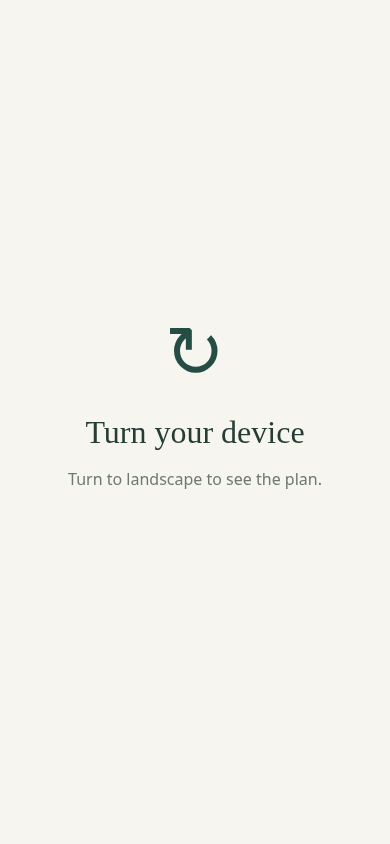
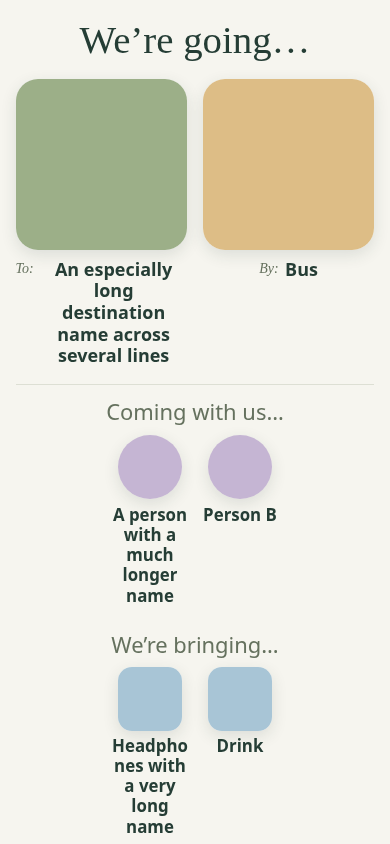
Restore portrait journeys and separate photo management in v1.0.21

Changed region(s): [[0.0308, 0.0308, 0.9846, 0.9858], [0.1846, 0.5545, 0.2462, 0.5853]]

diff --git a/transition_cues/transition-cues-web/app.js b/transition_cues/transition-cues-web/app.js
@@ -25,19 +25,19 @@ function frame(content, route) {
 function intro(title, description, extra='') { return `<div class="intro"><div><h1>${title}</h1>${description?`<p>${description}</p>`:''}</div>${extra}</div>`; }
 
 function settingsHeader(section) {
-  return `<div class="settings-segments" role="tablist" aria-label="Settings sections">${[['photos','Add photos',libraryIcon],['more','More settings',settingsIcon]].map(([key,label,icon])=>`<button type="button" role="tab" id="settingsTab-${key}" aria-selected="${key===section}" aria-controls="settingsPanel" tabindex="${key===section?'0':'-1'}" data-settings-section="${key}">${icon}<span>${label}</span></button>`).join('')}</div>`;
+  return `<div class="settings-segments" role="tablist" aria-label="Settings sections">${[['photos','Add photos',libraryIcon],['library','Manage photos',libraryIcon],['more','More settings',settingsIcon]].map(([key,label,icon])=>`<button type="button" role="tab" id="settingsTab-${key}" aria-selected="${key===section}" aria-controls="settingsPanel" tabindex="${key===section?'0':'-1'}" data-settings-section="${key}">${icon}<span>${label}</span></button>`).join('')}</div>`;
 }
 function wireSettingsSections(section) {
   const tabs=[...app.querySelectorAll('[data-settings-section]')];
   function selectTab(tab) {
-    const target=tab.dataset.settingsSection==='photos'?'#settings':'#settings-more';
+    const target={photos:'#settings',library:'#settings-manage',more:'#settings-more'}[tab.dataset.settingsSection];
     if(tab.dataset.settingsSection===section){tab.focus();return;}
     settingsTabFocus=true;location.hash=target;
   }
   tabs.forEach((tab,index)=>{
     tab.onclick=()=>selectTab(tab);
     tab.onkeydown=e=>{
-      const next={ArrowLeft:(index+1)%2,ArrowRight:(index+1)%2,Home:0,End:1}[e.key];
+      const next={ArrowLeft:(index+tabs.length-1)%tabs.length,ArrowRight:(index+1)%tabs.length,Home:0,End:tabs.length-1}[e.key];
       if(next===undefined)return;
       e.preventDefault();selectTab(tabs[next]);
     };
@@ -52,7 +52,7 @@ function empty(kind) {
     items:['＋','What shall we bring?','photos of things to take, like a drink, headphones or a favourite toy','an item'],
     people:['☺','Who is coming along?','a photo of someone who joins your journeys','a person']
   }[kind];
-  return `<div class="empty"><div class="empty-symbol" aria-hidden="true">${content[0]}</div><h3>${content[1]}</h3><p>Add ${content[2]}.<br>Real, familiar pictures make each journey easier to recognise.</p><a class="secondary" href="#manage">Add ${content[3]} <span aria-hidden="true">＋</span></a></div>`;
+  return `<div class="empty"><div class="empty-symbol" aria-hidden="true">${content[0]}</div><h3>${content[1]}</h3><p>Add ${content[2]}.<br>Real, familiar pictures make each journey easier to recognise.</p><a class="secondary" href="#settings">Add ${content[3]} <span aria-hidden="true">＋</span></a></div>`;
 }
 const planKinds=['places','transport','people','items'];
 function renderChoose(focusStep=false) {
@@ -125,7 +125,7 @@ function renderLocked() {
   document.body.classList.add('lock-active');
   const items = locked.items || [];
   const people = locked.people || [];
-  app.innerHTML = `<main class="locked ${items.length?'has-items':''} ${people.length?'has-people':''}" id="lockedSurface" aria-label="Journey picture display"><div class="orientation-notice" role="status"><span aria-hidden="true">↻</span><h1>Turn your device</h1><p>Turn to landscape to see the plan.</p></div><div class="journey-content"><h1>We’re going…</h1><div class="cue-pair">${['places','transport'].map((kind,i)=>`<figure class="cue-card"><img src="${esc(locked[kind].image)}" alt="${esc(locked[kind].name)}" draggable="false"><figcaption><span class="cue-label">${i===0?'To:':'By:'}</span><span class="cue-name">${esc(locked[kind].name)}</span></figcaption></figure>`).join('')}</div>${people.length||items.length?`<div class="journey-companions">${people.length ? `<section class="journey-people" aria-labelledby="peopleHeading"><h2 id="peopleHeading">Coming with us…</h2><div class="people-row">${people.map(person=>`<figure class="person-card"><img src="${esc(person.image)}" alt="${esc(person.name)}" draggable="false"><figcaption>${esc(person.name)}</figcaption></figure>`).join('')}</div></section>` : ''}${items.length ? `<section class="bring-items" aria-labelledby="bringHeading"><h2 id="bringHeading">We’re bringing…</h2><div class="bring-grid">${items.map(item=>`<figure class="bring-card"><img src="${esc(item.image)}" alt="${esc(item.name)}" draggable="false"><figcaption>${esc(item.name)}</figcaption></figure>`).join('')}</div></section>` : ''}</div>`:''}</div></main>`;
+  app.innerHTML = `<main class="locked ${items.length?'has-items':''} ${people.length?'has-people':''}" id="lockedSurface" aria-label="Journey picture display"><div class="journey-content"><h1>We’re going…</h1><div class="cue-pair">${['places','transport'].map((kind,i)=>`<figure class="cue-card"><img src="${esc(locked[kind].image)}" alt="${esc(locked[kind].name)}" draggable="false"><figcaption><span class="cue-label">${i===0?'To:':'By:'}</span><span class="cue-name">${esc(locked[kind].name)}</span></figcaption></figure>`).join('')}</div>${people.length||items.length?`<div class="journey-companions">${people.length ? `<section class="journey-people" aria-labelledby="peopleHeading"><h2 id="peopleHeading">Coming with us…</h2><div class="people-row">${people.map(person=>`<figure class="person-card"><img src="${esc(person.image)}" alt="${esc(person.name)}" draggable="false"><figcaption>${esc(person.name)}</figcaption></figure>`).join('')}</div></section>` : ''}${items.length ? `<section class="bring-items" aria-labelledby="bringHeading"><h2 id="bringHeading">We’re bringing…</h2><div class="bring-grid">${items.map(item=>`<figure class="bring-card"><img src="${esc(item.image)}" alt="${esc(item.name)}" draggable="false"><figcaption>${esc(item.name)}</figcaption></figure>`).join('')}</div></section>` : ''}</div>`:''}</div></main>`;
   $('#lockedSurface').addEventListener('contextmenu', e=>e.preventDefault());
   $('#lockedSurface').onclick = () => {
     const now = Date.now(); taps = taps.filter(t=>now-t<3000); taps.push(now);
@@ -138,13 +138,15 @@ const uploadCategories = [
   ['items','Items','<circle cx="6.5" cy="5" r="3"/><circle cx="17.5" cy="5" r="3"/><ellipse cx="12" cy="18" rx="5" ry="4"/><circle cx="7" cy="20" r="2.5"/><circle cx="17" cy="20" r="2.5"/><circle cx="12" cy="10" r="6"/><ellipse cx="12" cy="12" rx="2" ry="1.5"/><path d="M9 9h.01M15 9h.01"/>'],
   ['people','People','<circle cx="12" cy="7" r="4"/><path d="M4 22v-3a8 8 0 0 1 16 0v3Z"/>']
 ];
-function renderManage() {
-  frame(settingsHeader('photos')+`<section id="settingsPanel" role="tabpanel" aria-labelledby="settingsTab-photos">`+
-    `<div class="management"><section class="panel" aria-label="Upload a picture"><form id="uploadForm"><div><label for="photo">Photo</label><input id="photo" type="file" accept="image/jpeg,image/png,image/webp" required><p class="help">JPEG, PNG or WebP. Photos fill a square automatically. Use Crop photo to zoom out, adjust framing and colour any gaps. People display as circles.</p><img id="photoPreview" class="preview-image" alt="Selected photo preview" hidden><button id="cropUpload" class="secondary" type="button" hidden>Crop photo</button></div><div><label for="name">Name</label><input id="name" maxlength="60" placeholder="e.g. Park" required></div><fieldset class="kind-picker"><legend>What is it?</legend><div class="kind-options">${categoryChoices('kind',category)}</div></fieldset><p id="uploadError" class="error" role="alert"></p><button class="primary" type="submit" id="uploadButton">Add to library <span aria-hidden="true">＋</span></button></form></section><section aria-label="Existing pictures"><div class="tabs" aria-label="Picture categories">${[['places','Places'],['transport','Transport'],['items','Items'],['people','People']].map(([k,t])=>`<button data-tab="${k}" aria-pressed="${category===k}">${t} · ${state[k].length}</button>`).join('')}</div><div id="library"></div></section></div></section>`, 'settings');
-  wireSettingsSections('photos');
+function renderManage(section='photos') {
+  frame(settingsHeader(section)+`<section id="settingsPanel" role="tabpanel" aria-labelledby="settingsTab-${section}">`+
+    `${section==='photos'?`<div class="add-photos"><section class="panel" aria-label="Upload a picture"><form id="uploadForm"><div><label for="photo">Photo</label><input id="photo" type="file" accept="image/jpeg,image/png,image/webp" required><p class="help">JPEG, PNG or WebP. Photos fill a square automatically. Use Crop photo to zoom out, adjust framing and colour any gaps. People display as circles.</p><img id="photoPreview" class="preview-image" alt="Selected photo preview" hidden><button id="cropUpload" class="secondary" type="button" hidden>Crop photo</button></div><div><label for="name">Name</label><input id="name" maxlength="60" placeholder="e.g. Park" required></div><fieldset class="kind-picker"><legend>What is it?</legend><div class="kind-options">${categoryChoices('kind',category)}</div></fieldset><p id="uploadError" class="error" role="alert"></p><button class="primary" type="submit" id="uploadButton">Add to library <span aria-hidden="true">＋</span></button></form></section></div>`:`<div class="photo-library"><section aria-label="Existing pictures"><div class="tabs" aria-label="Picture categories">${[['places','Places'],['transport','Transport'],['items','Items'],['people','People']].map(([k,t])=>`<button data-tab="${k}" aria-pressed="${category===k}">${t} · ${state[k].length}</button>`).join('')}</div><div id="library"></div></section></div>`}</section>`, 'settings');
+  wireSettingsSections(section);
+  if(section==='library'){
+    app.querySelectorAll('[data-tab]').forEach(button=>button.onclick=()=>{category=button.dataset.tab;renderManage('library');});
+    renderLibrary();return;
+  }
   const uploadKind=()=>$('#uploadForm input[name="kind"]:checked').value;
-  app.querySelectorAll('[data-tab]').forEach(b=>b.onclick=()=>{category=b.dataset.tab;renderManage();});
-  renderLibrary();
   let previewUrl, croppedImage = null, preparing = Promise.resolve(), revision = 0;
   const uploadForm=$('#uploadForm');
   let wasPerson = uploadKind()==='people';
@@ -279,7 +281,7 @@ $('#editForm').onsubmit=async e=>{
     const body=editing.action==='rename'?{kind:editing.kind,id:editing.id,sourceName:editing.sourceName,name:$('#editName').value.trim()}:{kind:editing.kind,id:editing.id,targetKind:target};
     await api(editing.action,body);await refresh();
     if(target)category=target;
-    $('#editDialog').close();renderManage();
+    $('#editDialog').close();renderManage('library');
     app.querySelector(`[data-${editing.action}="${editing.id}"]`)?.focus({preventScroll:true});
     toast(editing.action==='rename'?'Name updated.':'Picture moved to its new category.');
   } catch(error){$('#editError').textContent=error.message;}
@@ -309,7 +311,7 @@ function renderLibrary() {
     button.disabled=true;
     try { await openCrop(item.originalImage || item.image, kind==='people', async image=>{
       await api('crop',{kind,id:item.id,sourceImage:item.image,image});
-      await refresh();renderManage();toast('Cropped picture saved. Locked journeys keep their current picture.');
+      await refresh();renderManage('library');toast('Cropped picture saved. Locked journeys keep their current picture.');
     }); } catch(error) { toast(error.message); }
     finally { button.disabled=false; }
   });
@@ -317,7 +319,7 @@ function renderLibrary() {
   app.querySelectorAll('[data-remove]').forEach(b=>b.onclick=()=>{const item=items.find(x=>x.id===b.dataset.remove);pendingDelete={kind:category,id:item.id};$('#deleteText').textContent=`Remove “${item.name}” from the library? An already locked journey will keep its picture until it is finished.`;$('#deleteDialog').showModal();});
 }
 $('#deleteCancel').onclick=()=>$('#deleteDialog').close();
-$('#deleteForm').onsubmit=async e=>{e.preventDefault();const b=e.submitter;b.disabled=true;try{await api('delete',pendingDelete);$('#deleteDialog').close();await refresh();renderManage();toast('Picture removed.');}catch(error){toast(error.message);}finally{b.disabled=false;}};
+$('#deleteForm').onsubmit=async e=>{e.preventDefault();const b=e.submitter;b.disabled=true;try{await api('delete',pendingDelete);$('#deleteDialog').close();await refresh();renderManage('library');toast('Picture removed.');}catch(error){toast(error.message);}finally{b.disabled=false;}};
 function renderSettings() {
   frame(settingsHeader('more')+`<section id="settingsPanel" role="tabpanel" aria-labelledby="settingsTab-more"><div class="settings-grid"><section class="panel"><h2>Back to main screen</h2><p>Add the address of your main tablet screen. A return link will appear on the parent screens.</p><form id="returnForm"><div><label for="returnUrl">Main screen address</label><input id="returnUrl" type="url" placeholder="http://homeassistant.local:8123/…" value="${esc(state.returnUrl)}"></div><button class="primary">Save link</button><p id="returnError" class="error" role="alert"></p></form></section></div></section>`, 'settings');
   wireSettingsSections('more');
@@ -328,7 +330,7 @@ async function route() {
   if($('#planDialog').open)$('#planDialog').close();
   if(locked){renderLocked();return;}
   const view=location.hash.slice(1) || (location.pathname==='/manage'?'manage':location.pathname==='/settings'?'settings':'choose');
-  if(view==='manage'||view==='settings')renderManage();else if(view==='settings-more')renderSettings();else renderChoose();
+  if(view==='settings')renderManage();else if(view==='manage'||view==='settings-manage')renderManage('library');else if(view==='settings-more')renderSettings();else renderChoose();
 }
 window.addEventListener('hashchange',()=>route());
 // Refresh the library when a parent returns to this tab; never replace a locked cue.

diff --git a/transition_cues/transition-cues-web/style.css b/transition_cues/transition-cues-web/style.css
@@ -33,7 +33,6 @@
 /* Landscape journey: aligned photos and captions, with both companion groups below. */
 .orientation-notice{display:none}.journey-content{display:flex;flex-direction:column;gap:2vh}.locked .cue-pair{grid-template-columns:repeat(2,minmax(0,1fr));align-items:start;gap:4vw}.locked .cue-card{justify-content:flex-start;align-self:start}.locked .cue-card img{width:min(100%,40vh)}.locked .cue-card figcaption{align-items:start;line-height:1.2;margin-top:1vh}.locked .cue-card .cue-label{line-height:1.2;display:flex;align-items:center;min-height:1.2em}.locked .cue-name{line-height:1.2}
 .journey-companions{display:flex;align-items:flex-start;justify-content:center;gap:4vw;border-top:1px solid var(--line);padding-top:1.5vh}.journey-companions>section{flex:1;min-width:0;border:0;padding:0}.journey-companions .people-row,.journey-companions .bring-grid{align-items:flex-start}.locked .journey-companions h2{font-size:clamp(16px,2.6vh,24px);margin:0 0 1vh}.locked .bring-card figcaption{font-size:clamp(14px,2vh,20px);line-height:1.2}
-@media(orientation:portrait){.locked .journey-content{display:none}.locked .orientation-notice{display:flex;flex-direction:column;align-items:center;justify-content:center;min-height:90dvh;text-align:center;padding:24px}.orientation-notice>span{font-size:72px;color:var(--green)}.locked .orientation-notice h1{font-size:32px;margin:16px 0}.orientation-notice p{color:var(--muted);line-height:1.6;margin:0}}
 .locked .cue-card figcaption,.locked:is(.has-items,.has-people) .cue-card figcaption{--cue-name-size:clamp(20px,3.2vh,36px);font-size:var(--cue-name-size)}.locked .cue-card .cue-label{height:calc(var(--cue-name-size)*1.2);font-size:clamp(14px,2.6vh,24px)}
 
 .settings-grid{grid-template-columns:1fr;max-width:700px}
@@ -58,3 +57,6 @@
 .wizard-heading{margin:32px 0 26px;align-items:center}.wizard-heading h2{font:normal clamp(32px,4vw,48px)/1.15 var(--serif);letter-spacing:-1.3px;margin:12px 0}.wizard-heading small{font-size:12px;color:var(--muted);flex:none}.optional-items{margin-top:40px}.wizard-heading .items-guidance{font-size:14px;margin-top:5px}@media(max-width:620px){.wizard-heading{display:flex;gap:12px;align-items:flex-start}.wizard-heading small{padding-top:18px;max-width:90px;text-align:right}.optional-items{margin-top:32px}}
 
 .brand img{border-radius:10px}
+
+.brand img{border:1px solid #000}.add-photos{max-width:440px}.settings-segments{width:min(100%,600px)}.photo-library .library-grid{grid-template-columns:repeat(4,minmax(0,1fr))}@media(max-width:900px){.photo-library .library-grid{grid-template-columns:repeat(3,minmax(0,1fr))}}@media(max-width:620px){.photo-library .library-grid{grid-template-columns:repeat(2,minmax(0,1fr))}.settings-segments [role=tab]{flex-direction:column;gap:5px;font-size:12px;padding:9px 4px;line-height:1.3}.settings-segments svg{width:20px;height:20px}}
+@media(orientation:portrait) and (max-width:620px){.locked .journey-companions{flex-direction:column;gap:24px}.locked .journey-companions>section{width:100%}.locked .cue-card figcaption,.locked:is(.has-items,.has-people) .cue-card figcaption{--cue-name-size:clamp(18px,4.5vw,30px);font-size:var(--cue-name-size)}.locked .cue-card .cue-label{font-size:clamp(14px,3.5vw,22px)}}

diff --git a/transition_cues/transition-cues-web/index.html b/transition_cues/transition-cues-web/index.html
@@ -10,7 +10,7 @@
 <body>
 <div id="app"><p class="loading" role="status">Opening ReadySteady…</p></div>
 <dialog id="planDialog" aria-labelledby="planTitle" aria-describedby="planHelp">
-<form id="planForm"><span class="eyebrow">READY TO GO</span><h1 id="planTitle">A clear plan, ready when you are</h1><p id="planHelp">The display locks when you start. Tap 5 times within 3 seconds to finish. Turn your device to landscape to see the plan.</p><label class="remember-choice" for="skipPlanIntro"><input id="skipPlanIntro" type="checkbox">Don’t show this again</label><p class="help">Remembers your choice in this browser on this device.</p><div class="dialog-actions"><button id="planBack" type="button" class="secondary">Back to choices</button><button id="planContinue" type="submit" class="primary">Continue to the plan →</button></div></form>
+<form id="planForm"><span class="eyebrow">READY TO GO</span><h1 id="planTitle">A clear plan, ready when you are</h1><p id="planHelp">The display locks when you start. Tap 5 times within 3 seconds to finish.</p><label class="remember-choice" for="skipPlanIntro"><input id="skipPlanIntro" type="checkbox">Don’t show this again</label><p class="help">Remembers your choice in this browser on this device.</p><div class="dialog-actions"><button id="planBack" type="button" class="secondary">Back to choices</button><button id="planContinue" type="submit" class="primary">Continue to the plan →</button></div></form>
 </dialog>
 <dialog id="deleteDialog" aria-labelledby="deleteTitle"><form id="deleteForm"><span class="eyebrow">PICTURE LIBRARY</span><h2 id="deleteTitle">Remove this picture?</h2><p id="deleteText"></p><div class="dialog-actions"><button type="button" class="secondary" id="deleteCancel">Keep picture</button><button type="submit" class="danger">Remove</button></div></form></dialog>
 <dialog id="editDialog" aria-labelledby="editTitle" aria-describedby="editHelp"><form id="editForm"><h2 id="editTitle">Edit picture</h2><p id="editHelp"></p><div id="renameFields"><label for="editName">Name</label><input id="editName" maxlength="60" autocomplete="off" required></div><fieldset id="transferFields" class="kind-picker" hidden><legend>New category</legend><div id="editCategories" class="kind-options"></div></fieldset><p id="editError" class="error" role="alert"></p><div class="dialog-actions"><button id="editCancel" type="button" class="secondary">Cancel</button><button id="editSave" type="submit" class="primary">Save</button></div></form></dialog>

diff --git a/tests/browser_people_crop.py b/tests/browser_people_crop.py
@@ -31,13 +31,14 @@ def run(engine):
                 expect(page.get_by_text('Familiar pictures. A little more certainty.',exact=True)).to_have_count(0)
                 phone=browser.new_context(viewport={'width':390,'height':844},is_mobile=True,has_touch=True)
                 mobile=phone.new_page();mobile.on('pageerror',lambda e:errors.append(str(e)))
-                mobile.goto(url+'/#manage')
+                mobile.goto(url+'/#settings')
                 expect(mobile.locator('#uploadForm')).to_be_visible()
                 # Three colour bands make a crop's actual output measurable.
                 png=mobile.evaluate('''()=>{const c=document.createElement('canvas');c.width=600;c.height=400;const x=c.getContext('2d');['#d00000','#00b000','#0000d0'].forEach((color,i)=>{x.fillStyle=color;x.fillRect(i*200,0,200,400)});return c.toDataURL('image/png').split(',')[1]}''')
                 def dimensions(src):
                     return mobile.evaluate('''async src=>{const i=new Image();i.src=src;await i.decode();return [i.width,i.height]}''',src)
                 def upload(kind,name,crop=False):
+                    mobile.get_by_role('tab',name='Add photos',exact=True).click()
                     mobile.get_by_role('radio',name={'places':'Place','transport':'Transport','items':'Items','people':'People'}[kind],exact=True).check();mobile.locator('#name').fill(name)
                     mobile.locator('#photo').set_input_files({'name':'test.png','mimeType':'image/png','buffer':base64.b64decode(png)})
                     expect(mobile.locator('#photoPreview')).to_be_visible()
@@ -54,6 +55,8 @@ def run(engine):
                         mobile.locator('#cropSave').click()
                         expect(mobile.locator('#cropDialog')).not_to_be_visible()
                     mobile.locator('#uploadButton').click()
+                    expect(mobile.locator('#name')).to_have_value('')
+                    mobile.get_by_role('tab',name='Manage photos',exact=True).click()
                     expect(mobile.locator('.library-item strong',has_text=name)).to_be_visible()
                     saved=mobile.evaluate('''async ({kind,name})=>{const s=await(await fetch('/api/state')).json();return s[kind].find(i=>i.name===name)}''',{'kind':kind,'name':name})
                     assert dimensions(saved['image'])==([200,200] if crop else [400,400])
@@ -90,12 +93,15 @@ def run(engine):
                 assert pixel(bus['image'],580,300)[2]>180  # Original right edge still visible.
                 # Full and partial transparency must enable the picker even without zooming out.
                 transparent=mobile.evaluate('''()=>{const c=document.createElement('canvas');c.width=600;c.height=400;const x=c.getContext('2d');x.fillStyle='#d00000';x.fillRect(0,0,200,400);x.fillStyle='rgba(255,255,255,.5)';x.fillRect(200,0,200,400);return c.toDataURL('image/png').split(',')[1]}''')
+                mobile.get_by_role('tab',name='Add photos',exact=True).click()
                 mobile.get_by_role('radio',name='Place',exact=True).check();mobile.locator('#name').fill('Transparent symbol')
                 mobile.locator('#photo').set_input_files({'name':'transparent.png','mimeType':'image/png','buffer':base64.b64decode(transparent)})
                 mobile.locator('#cropUpload').click()
                 expect(mobile.locator('#cropBackgroundGroup')).to_be_visible()
                 mobile.locator('#cropBackground').fill('#2468ac');mobile.locator('#cropSave').click()
                 mobile.locator('#uploadButton').click()
+                expect(mobile.locator('#name')).to_have_value('')
+                mobile.get_by_role('tab',name='Manage photos',exact=True).click()
                 expect(mobile.locator('.library-item strong',has_text='Transparent symbol')).to_be_visible()
                 symbol=mobile.evaluate("async()=>{const s=await(await fetch('/api/state')).json();return s.places.find(i=>i.name==='Transparent symbol')}")
                 assert dimensions(symbol['image'])==[400,400]
@@ -108,6 +114,7 @@ def run(engine):
                 mobile.locator('#cropCancel').click()
 
                 # Partial alpha on its own also enables the colour picker at fill zoom.
+                mobile.get_by_role('tab',name='Add photos',exact=True).click()
                 partial=mobile.evaluate('''()=>{const c=document.createElement('canvas');c.width=c.height=100;const x=c.getContext('2d');x.fillStyle='rgba(255,0,0,.5)';x.fillRect(0,0,100,100);return c.toDataURL('image/png').split(',')[1]}''')
                 mobile.locator('#photo').set_input_files({'name':'partial.png','mimeType':'image/png','buffer':base64.b64decode(partial)})
                 mobile.locator('#cropUpload').click()
@@ -165,10 +172,8 @@ def run(engine):
                 for width,height in [(1280,900),(1024,768),(768,1024),(390,844)]:
                     page.set_viewport_size({'width':width,'height':height})
                     assert page.evaluate('document.documentElement.scrollWidth<=innerWidth')
-                    if height>width:
-                        expect(page.locator('.orientation-notice')).to_be_visible()
-                        expect(page.locator('.cue-pair')).not_to_be_visible()
-                        continue
+                    expect(page.locator('.journey-content')).to_be_visible()
+                    expect(page.locator('.orientation-notice')).to_have_count(0)
                     for photo in page.locator('.cue-card img,.bring-card img').all():
                         bounds=photo.bounding_box()
                         assert abs(bounds['width']-bounds['height'])<1,bounds

diff --git a/tests/browser_display.py b/tests/browser_display.py
@@ -1,4 +1,4 @@
-"""Landscape gating, stable long-name geometry, navigation and timed tap-to-exit."""
+"""Portrait/landscape layouts, long-name geometry, settings navigation and tap-to-exit."""
 import argparse
 import os
 from pathlib import Path
@@ -36,9 +36,14 @@ def run(engine):
                 expect(page.locator('#uploadForm')).to_be_visible()
                 expect(page.locator('#returnForm')).to_have_count(0)
                 expect(page.get_by_text('On the tablet',exact=True)).to_have_count(0)
-                expect(page.locator('.settings-segments svg')).to_have_count(2)
+                expect(page.locator('.settings-segments svg')).to_have_count(3)
                 page.screenshot(path='/tmp/readysteady-settings-photos.png',full_page=True)
-                page.get_by_role('tab',name='More settings',exact=True).click()
+                expect(page.locator('#library')).to_have_count(0)
+                page.get_by_role('tab',name='Manage photos',exact=True).click()
+                expect(page.locator('#library')).to_be_visible()
+                expect(page.locator('#uploadForm')).to_have_count(0)
+                expect(page.get_by_role('tab',name='Manage photos',exact=True)).to_have_attribute('aria-selected','true')
+                page.get_by_role('tab',name='Manage photos',exact=True).press('ArrowRight')
                 expect(page.get_by_role('tab',name='More settings',exact=True)).to_have_attribute('aria-selected','true')
                 expect(page.locator('#uploadForm')).to_have_count(0)
                 expect(page.locator('#settingsPanel h2')).to_have_count(1)
@@ -120,8 +125,11 @@ def run(engine):
                     assert page.locator('.cue-name').first.bounding_box()['height']>page.locator('.cue-name').last.bounding_box()['height']
                     pair=page.locator('.cue-pair').bounding_box()
                     groups=[page.locator('.journey-people').bounding_box(),page.locator('.bring-items').bounding_box()]
-                    assert abs(groups[0]['y']-groups[1]['y'])<1
-                    assert groups[0]['x']+groups[0]['width']<=groups[1]['x']+1
+                    if page.viewport_size['height']>page.viewport_size['width'] and page.viewport_size['width']<=620:
+                        assert groups[1]['y']>=groups[0]['y']+groups[0]['height']
+                    else:
+                        assert abs(groups[0]['y']-groups[1]['y'])<1
+                        assert groups[0]['x']+groups[0]['width']<=groups[1]['x']+1
                     assert groups[0]['y']>=pair['y']+pair['height']
                     for selector in ['.person-card img','.bring-card img']:
                         boxes=[image.bounding_box() for image in page.locator(selector).all()]
@@ -131,10 +139,13 @@ def run(engine):
                     page.set_viewport_size({'width':width,'height':height});assert_aligned()
                 page.screenshot(path='/tmp/transition-cues-landscape.png',full_page=False)
                 page.set_viewport_size({'width':390,'height':844})
-                expect(page.get_by_role('heading',name='Turn your device')).to_be_visible()
-                expect(page.locator('.journey-content')).not_to_be_visible()
+                expect(page.locator('.journey-content')).to_be_visible()
+                expect(page.locator('.orientation-notice')).to_have_count(0)
+                assert_aligned()
+                page.locator('.bring-card').last.scroll_into_view_if_needed()
+                expect(page.locator('.bring-card').last).to_be_in_viewport()
                 page.screenshot(path='/tmp/transition-cues-portrait.png',full_page=False)
-                page.reload();expect(page.get_by_role('heading',name='Turn your device')).to_be_visible()
+                page.reload();expect(page.locator('.journey-content')).to_be_visible()
                 page.set_viewport_size({'width':1024,'height':768})
                 expect(page.locator('.journey-content')).to_be_visible();assert_aligned()
                 # Deterministic time verifies that a fifth late tap cannot exit.
@@ -150,7 +161,7 @@ def run(engine):
                 page.reload();expect(page.locator('#start')).not_to_be_visible()
                 assert not errors,errors
                 browser.close()
-                print(f'PASS ({engine}): selection-card photo/name alignment at phone/tablet sizes, one-step wizard, thumbnail summary and editing, back navigation, optional-item skip, conditional start button, accessible navigation, portrait prompt, landscape display, aligned long names and photos, companion groups, snapshot reload and timed five-tap exit.')
+                print(f'PASS ({engine}): selection-card photo/name alignment at phone/tablet sizes, one-step wizard, thumbnail summary and editing, back navigation, optional-item skip, conditional start button, accessible navigation, portrait and landscape display, aligned long names and photos, companion groups, snapshot reload and timed five-tap exit.')
         finally:
             server.shutdown();server.server_close();thread.join()
 

diff --git a/tests/browser_smoke.py b/tests/browser_smoke.py
@@ -34,7 +34,7 @@ def run():
                 phone = browser.new_context(viewport={'width':390,'height':844}, is_mobile=True, has_touch=True)
                 mobile = phone.new_page()
                 mobile.on('pageerror', lambda error: errors.append(str(error)))
-                mobile.goto(url + '/#manage')
+                mobile.goto(url + '/#settings')
                 expect(mobile.locator('#uploadForm')).to_be_visible()
                 # Test images are generated within the browser, never shipped in the real library.
                 for kind, name, color in [('places','Park','#9caf88'),('transport','Bus','#ddbd86'),('items','Drink','#a8c5d6'),('items','Headphones','#c5b5d3'),('items','Coat','#d7b4a2'),('items','Toy','#c0cdaa'),('items','Bag','#e0d1a2')]:
@@ -43,7 +43,11 @@ def run():
                     mobile.locator('#name').fill(name)
                     mobile.get_by_role('radio',name={'places':'Place','transport':'Transport','items':'Items','people':'People'}[kind],exact=True).check()
                     mobile.locator('#uploadButton').click()
+                    expect(mobile.locator('#name')).to_have_value('')
+                    mobile.get_by_role('tab',name='Manage photos',exact=True).click()
                     expect(mobile.locator('.library-item strong', has_text=name)).to_be_visible()
+                    mobile.get_by_role('tab',name='Add photos',exact=True).click()
+                mobile.get_by_role('tab',name='Manage photos',exact=True).click()
                 mobile.screenshot(path='/tmp/transition-cues-phone.png', full_page=True)
                 assert mobile.evaluate('document.documentElement.scrollWidth <= innerWidth'), 'Phone layout overflows'
                 page.reload()
@@ -94,10 +98,10 @@ def run():
                 for width,height in [(1280,900),(1024,768),(768,1024),(390,844)]:
                     page.set_viewport_size({'width':width,'height':height})
                     assert page.evaluate('document.documentElement.scrollWidth <= innerWidth'), 'Locked layout overflows horizontally'
-                    if height>width:
-                        expect(page.locator('.orientation-notice')).to_be_visible()
-                        expect(page.locator('.cue-pair')).not_to_be_visible()
-                        continue
+                    expect(page.locator('.journey-content')).to_be_visible()
+                    expect(page.locator('.orientation-notice')).to_have_count(0)
+                    page.locator('.bring-card').last.scroll_into_view_if_needed()
+                    expect(page.locator('.bring-card').last).to_be_in_viewport()
                     assert page.locator('.bring-items').evaluate('(items)=>items.getBoundingClientRect().top >= document.querySelector(".cue-pair").getBoundingClientRect().bottom'), 'Items must be below the main photos'
                 page.set_viewport_size({'width':1280,'height':900})
                 page.screenshot(path='/tmp/transition-cues-locked.png', full_page=True)

diff --git a/tests/container_smoke.py b/tests/container_smoke.py
@@ -81,5 +81,5 @@ print('PASS: replacement container preserves library and images in /data')
 
 if __name__ == '__main__':
     parser = argparse.ArgumentParser()
-    parser.add_argument('--image', default='transition-cues-ha-check:1.0.20')
+    parser.add_argument('--image', default='transition-cues-ha-check:1.0.21')
     run(parser.parse_args().image)

diff --git a/transition_cues/DOCS.md b/transition_cues/DOCS.md
@@ -40,11 +40,11 @@ If you are starting with an empty library, stop the old add-on, install and star
 
 ## First launch and pictures
 
-The gear icon at the top right opens **Settings**, with **Add photos** selected by default. The Settings title sits at the right of its header. Its picture icon shows the upload form and existing library. Choose **More settings** (cog icon) for the **Back to main screen** address; this is the only setting in that section. Use the chevron back button at the top left to return to journey selection. The segmented control supports the arrow keys and Home/End, and existing picture-library URLs still open Add photos.
+The gear icon at the top right opens **Settings**, with **Add photos** selected by default. The Settings title sits at the right of its header. **Add photos** contains only the upload form. **Manage photos** contains the category tabs, saved pictures and crop, rename, transfer, reorder and delete actions. Choose **More settings** (cog icon) for the **Back to main screen** address; this is the only setting in that section. Use the chevron back button at the top left to return to journey selection. The segmented control supports the arrow keys and Home/End, and existing picture-library URLs open Manage photos.
 
 No PIN or first-launch setup is required. Open the picture library to add your photos. Existing photo libraries and return links remain available after updating; obsolete saved PIN hashes are removed automatically.
 
-In **Settings → Add photos**, choose a photo, enter its name, then choose the **Place** (location pin), **Transport** (train), **Items** (teddy bear), or **People** (person) icon and add it. Use the Places, Transport, Items and People tabs to browse and remove pictures. JPEG, PNG and WebP are supported; convert HEIC files first. Photos are resized to at most 1600 pixels before upload. The four-item limit applies to a journey; the item library may contain more than four pictures.
+In **Settings → Add photos**, choose a photo, enter its name, then choose the **Place** (location pin), **Transport** (train), **Items** (teddy bear), or **People** (person) icon and add it. Open **Manage photos** and use the Places, Transport, Items and People tabs to browse and remove pictures. JPEG, PNG and WebP are supported; convert HEIC files first. Photos are resized to at most 1600 pixels before upload. The four-item limit applies to a journey; the item library may contain more than four pictures.
 
 ## Manage existing pictures
 
@@ -72,7 +72,7 @@ The planner has three pages. **Where are we going?** shows Places with no subtit
 
 After the first place is selected, the opening title and description are replaced by small thumbnails of your choices. The thumbnails update as you select or deselect pictures. Use the chevron to return to the previous step, or tap a thumbnail to edit that category. Earlier choices are retained when navigating back. **Show the plan** appears after choosing a place and becomes available once transport is selected; both optional categories may be left empty.
 
-The journey appears only in landscape. In portrait, a **Turn your device** prompt appears; rotate the device to see the same saved journey. Destination and transport photos stay aligned, with **To:** and **By:** beside their names. Long names expand downward. People and bring-along items appear in groups beside each other below the main photos; larger groups may wrap and the display can scroll.
+The journey appears in both portrait and landscape. On portrait phones, the People and Items groups stack to use the available width. Destination and transport photos stay aligned, with **To:** and **By:** beside their names. Long names expand downward. People and bring-along items appear in groups beside each other below the main photos; larger groups may wrap and the display can scroll.
 
 Tap the display five times within three seconds to return directly to the plan choices. There is no PIN prompt. Fewer taps, or taps spread over longer than three seconds, keep the plan on screen. Refreshing restores the journey, including its selected photos, in the same browser and at the same server address. Different hostnames/ports have separate browser storage.
 

diff --git a/README.md b/README.md
@@ -24,9 +24,9 @@ No GitHub token is needed for this public repository. You do not need to copy fi
 
 ## Use
 
-Choose a place, then transport, one step at a time. Small thumbnails at the top show your choices; use the back arrow or tap a thumbnail to edit an earlier choice. On the final page, optionally select people first and up to four bring-along items beneath them. Tap **Show the plan** when ready. The locked display shows the place and transport first, followed by selected people as circular portraits and bring-along items in side-by-side groups. The journey appears in landscape; portrait shows a **Turn your device** prompt. People and items are optional; tap any selected picture again to deselect it. Tap five times within three seconds to finish. Reloading restores the locked journey in that browser.
+Choose a place, then transport, one step at a time. Small thumbnails at the top show your choices; use the back arrow or tap a thumbnail to edit an earlier choice. On the final page, optionally select people first and up to four bring-along items beneath them. Tap **Show the plan** when ready. The locked display shows the place and transport first, followed by selected people as circular portraits and bring-along items in side-by-side groups. The journey works in portrait and landscape. People and items are optional; tap any selected picture again to deselect it. Tap five times within three seconds to finish. Reloading restores the locked journey in that browser.
 
-On a phone, open the same server address and choose **Settings → Add photos** to upload, name, browse and remove pictures in all four categories. Use **Crop photo** before uploading or beside an existing library picture to frame the image. People have a circular preview; drag, zoom or use the position sliders to centre each face. Use **Settings → More settings** to add a **Back to main screen** link in the parent-screen navigation. The return link can point to a dashboard or another application.
+On a phone, open the same server address and choose **Settings → Add photos** to upload and name pictures. Use **Settings → Manage photos** to browse, crop, rename, move, reorder and remove existing pictures in all four categories. Use **Crop photo** before uploading or beside an existing library picture to frame the image. People have a circular preview; drag, zoom or use the position sliders to centre each face. Use **Settings → More settings** to add a **Back to main screen** link in the parent-screen navigation. The return link can point to a dashboard or another application.
 
 After **Show the plan**, a splash screen explains how to unlock the display. Choose **Continue to the plan** to lock it, or **Back to choices** to keep editing. Tick **Don’t show this again** before continuing to skip the splash on future journeys in this browser on this device. The preference survives reloads and add-on updates; clearing browser site data resets it. Other devices keep their own preference.
 
@@ -57,8 +57,9 @@ Screenshots use coloured test placeholders, not family photographs:
 - [Tablet selection screen](docs/screenshots/picker.png)
 - [Transport selection with thumbnail summary](docs/screenshots/transport.png)
 - [Combined People and Items page](docs/screenshots/companions.png)
+- [Add photos](docs/screenshots/add-photos.png)
 - [More settings](docs/screenshots/settings.png)
-- [Portrait rotation prompt](docs/screenshots/portrait.png)
+- [Portrait journey display](docs/screenshots/portrait.png)
 - [Locked display with people and bring-along items](docs/screenshots/locked.png)
 - [Phone picture library](docs/screenshots/phone.png)
 - [Photo crop editor](docs/screenshots/crop.png)

diff --git a/DEVELOPMENT.md b/DEVELOPMENT.md
@@ -17,7 +17,7 @@ python3 -m unittest discover -s tests -v
 node --check transition_cues/transition-cues-web/app.js
 ```
 
-For optional browser checks, install Playwright and its Chromium dependency, then run `python3 tests/browser_smoke.py` and `python3 tests/browser_people_crop.py`. The latter checks square frames, fill/fit output pixels, background colours, source transparency, People portraits and immutable locked journey snapshots; add `--browser webkit` to check the same flows with the Safari engine. Run `python3 tests/browser_display.py` (or add `--browser webkit`) for the one-step planner, selection thumbnails, back navigation, Settings controls, landscape gating, long-name alignment and timed tap exit. Run `python3 tests/browser_splash.py` (or add `--browser webkit`) to check the pre-lock splash and saved browser preference. Set `CHROMIUM_PATH` to use a system Chromium. It creates an isolated temporary library, not `/data` or a shared Home Assistant folder.
+For optional browser checks, install Playwright and its Chromium dependency, then run `python3 tests/browser_smoke.py` and `python3 tests/browser_people_crop.py`. The latter checks square frames, fill/fit output pixels, background colours, source transparency, People portraits and immutable locked journey snapshots; add `--browser webkit` to check the same flows with the Safari engine. Run `python3 tests/browser_display.py` (or add `--browser webkit`) for the one-step planner, selection thumbnails, back navigation, Settings controls, portrait/landscape layouts, long-name alignment and timed tap exit. Run `python3 tests/browser_splash.py` (or add `--browser webkit`) to check the pre-lock splash and saved browser preference. Set `CHROMIUM_PATH` to use a system Chromium. It creates an isolated temporary library, not `/data` or a shared Home Assistant folder.
 
 CI runs the tests and builds the add-on for `linux/amd64` and `linux/arm64` (Home Assistant's `aarch64`). Each job also runs an isolated container check that verifies /data storage and preservation across container replacement. Nothing is pushed to a registry or deployed. A local equivalent is `docker build -t transition-cues-check ./transition_cues` followed by `python3 tests/container_smoke.py --image transition-cues-check`. The smoke check creates and removes only its own temporary containers and volume.
 

diff --git a/transition_cues/README.md b/transition_cues/README.md
@@ -4,7 +4,7 @@ Transition Cues
 
 Familiar place, transport and bring-along pictures for a calm transition.
 
-Choose a place and transport and optionally up to four things to bring and the people joining you. People appear as circular portraits. Crop new or existing photos in the picture library. Show the plan on the tablet in landscape, with a portrait rotation prompt. Tap five times within three seconds to finish. Manage your family's photos from your phone.
+Choose a place and transport and optionally up to four things to bring and the people joining you. People appear as circular portraits. Crop new or existing photos in the picture library. Show the plan on the tablet in portrait or landscape. Tap five times within three seconds to finish. Manage your family's photos from your phone.
 
 Install from the [ReadySteady custom repository](https://github.com/Benjamin-Leo-Code/transition-cues-app). Home Assistant handles installation, updates, starting and stopping. Photos and settings are kept in the add-on's private persistent storage.
 

diff --git a/transition_cues/CHANGELOG.md b/transition_cues/CHANGELOG.md
@@ -1,5 +1,11 @@
 # Changelog
 
+## 1.0.21
+
+- Restore the journey display in portrait, with responsive photos and companion groups.
+- Add a thin black border to the top-left app icon.
+- Separate Add photos and Manage photos into distinct Settings sections, alongside More settings.
+
 ## 1.0.20
 
 - Replace all mitten icon exports and Home Assistant wordmark artwork with the supplied v3 pack.
